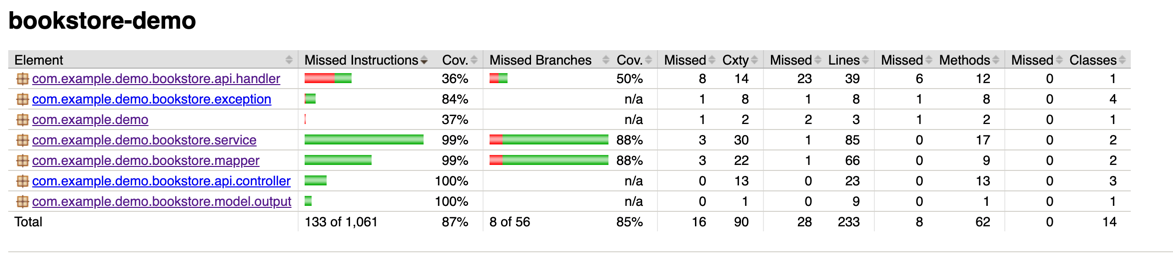
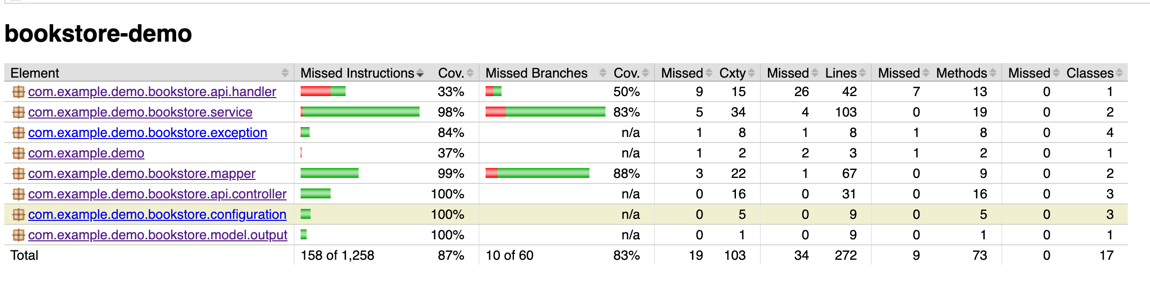
add feature: upload book cover image

diff --git a/src/test/java/com/example/demo/bookstore/api/controller/BookControllerTests.java b/src/test/java/com/example/demo/bookstore/api/controller/BookControllerTests.java
@@ -13,11 +13,19 @@ import org.junit.jupiter.api.Test;
 import org.springframework.beans.factory.annotation.Autowired;
 import org.springframework.boot.test.autoconfigure.web.servlet.AutoConfigureMockMvc;
 import org.springframework.boot.test.context.SpringBootTest;
+import org.springframework.http.MediaType;
 import org.springframework.http.ProblemDetail;
+import org.springframework.mock.web.MockMultipartFile;
+import org.springframework.mock.web.MockPart;
 import org.springframework.test.web.servlet.MockMvc;
 import org.springframework.test.web.servlet.MvcResult;
 import org.springframework.test.web.servlet.ResultMatcher;
 import org.springframework.test.web.servlet.request.MockHttpServletRequestBuilder;
+import org.springframework.test.web.servlet.request.MockMultipartHttpServletRequestBuilder;
+import org.springframework.test.web.servlet.request.MockMvcRequestBuilders;
+import org.springframework.util.LinkedMultiValueMap;
+import org.springframework.util.MultiValueMap;
+import org.springframework.web.multipart.MultipartFile;
 
 import java.math.BigDecimal;
 import java.util.Objects;
@@ -67,6 +75,40 @@ class BookControllerTests {
         //
         MockHttpServletRequestBuilder requestBuilder = post(url).contentType(APPLICATION_JSON)
                 .content(objectMapper.writeValueAsString(bookCreateInput))
+                .accept(APPLICATION_JSON);
+        // execute and assert
+        mockMvc.perform(requestBuilder)
+                .andDo(print())
+                .andExpect(status().isCreated())
+                .andExpect(new ResultMatcher() {
+                    @Override
+                    public void match(MvcResult result) throws Exception {
+                        String content = result.getResponse().getContentAsString();
+                        BookInfo bookInfo = objectMapper.readValue(content, BookInfo.class);
+                        //
+                        Assertions.assertEquals(bookCreateInput.getTitle(), bookInfo.getTitle());
+                        Assertions.assertEquals(bookCreateInput.getAuthor(), bookInfo.getAuthor());
+                        Assertions.assertEquals(bookCreateInput.getAmount(), bookInfo.getAmount());
+                        Assertions.assertEquals(bookCreateInput.getPrice(), bookInfo.getPrice());
+                        Assertions.assertEquals(bookCreateInput.getCategory(), bookInfo.getCategory());
+                    }
+                });
+    }
+
+    @Test
+    void test_api_create_book_with_cover_success() throws Exception {
+        String url = "/books/v2/";
+        // Prepare
+        BookCreateInput bookCreateInput = BookCreateInput.builder()
+                .title(randomTitle()).author(AUTHOR).category(CATEGORY)
+                .price(PRICE).amount(AMOUNT).build();
+        String jsonValue = objectMapper.writeValueAsString(bookCreateInput);
+        //
+        MockPart file = new MockPart("file", "image.jpg", "image data".getBytes(), MediaType.MULTIPART_FORM_DATA);
+        MockPart jsonPart = new MockPart("jsonData", "json", jsonValue.getBytes(), MediaType.APPLICATION_JSON);
+        //
+        MockHttpServletRequestBuilder requestBuilder = multipart(url)
+                .part(file, jsonPart)
                 .accept(APPLICATION_JSON);
         // execute and assert
         mockMvc.perform(requestBuilder)

diff --git a/src/main/java/com/example/demo/bookstore/service/BookService.java b/src/main/java/com/example/demo/bookstore/service/BookService.java
@@ -1,5 +1,6 @@
 package com.example.demo.bookstore.service;
 
+import com.example.demo.bookstore.configuration.BookstoreProperties;
 import com.example.demo.bookstore.entity.Book;
 import com.example.demo.bookstore.event.BookAddedIntoCart;
 import com.example.demo.bookstore.event.BookRemovedFromCart;
@@ -17,16 +18,17 @@ import org.springframework.data.domain.Page;
 import org.springframework.data.domain.PageRequest;
 import org.springframework.data.domain.Pageable;
 import org.springframework.data.domain.Sort;
-import org.springframework.scheduling.annotation.Async;
 import org.springframework.stereotype.Service;
 import org.springframework.transaction.annotation.Transactional;
-import org.springframework.transaction.event.TransactionalEventListener;
+import org.springframework.web.multipart.MultipartFile;
 
+import java.io.File;
+import java.io.IOException;
+import java.nio.file.Files;
+import java.nio.file.Path;
 import java.util.Collections;
 import java.util.List;
-import java.util.Optional;
 import java.util.Set;
-import java.util.function.Supplier;
 
 @Slf4j
 @Service
@@ -36,9 +38,14 @@ public class BookService {
 
     private final BookMapper bookMapper;
 
-    public BookService(BookRepository bookRepository, BookMapper bookMapper) {
+    private final BookstoreProperties bookstoreProperties;
+
+    public BookService(BookRepository bookRepository,
+                       BookMapper bookMapper,
+                       BookstoreProperties bookstoreProperties) {
         this.bookRepository = bookRepository;
         this.bookMapper = bookMapper;
+        this.bookstoreProperties = bookstoreProperties;
     }
 
     // create a book
@@ -129,6 +136,25 @@ public class BookService {
         //
         List<Book> bookList = bookRepository.findAllById(bookIds);
         return bookMapper.toBookInfos(bookList);
+    }
+
+    @Transactional
+    public BookInfo create(BookCreateInput input, MultipartFile file) {
+        log.debug("create book with file: {}", input);
+        Book book = bookMapper.toBook(input);
+        book.setActive(true);
+        // save file to directory
+        try {
+            String directory = bookstoreProperties.getRelativePath() + file.getOriginalFilename();
+            Path outputPath = new File(directory).toPath();
+            Files.copy(file.getInputStream(), outputPath);
+            book.setCoverImageUrl(directory);
+        } catch (IOException e) {
+            throw new RuntimeException(e);
+        }
+        //
+        book = bookRepository.save(book);
+        return bookMapper.toBookInfo(book);
     }
 
 }

diff --git a/src/main/java/com/example/demo/bookstore/api/controller/BookController.java b/src/main/java/com/example/demo/bookstore/api/controller/BookController.java
@@ -14,7 +14,9 @@ import io.swagger.v3.oas.annotations.tags.Tag;
 import jakarta.validation.Valid;
 import lombok.extern.slf4j.Slf4j;
 import org.springframework.http.HttpStatus;
+import org.springframework.validation.BindingResult;
 import org.springframework.web.bind.annotation.*;
+import org.springframework.web.multipart.MultipartFile;
 
 @Tag(name = "Book APIs")
 @RestController
@@ -31,15 +33,28 @@ public class BookController {
     @Operation(description = "Create a book")
     @PostMapping("/v1/")
     @ResponseStatus(HttpStatus.CREATED)
-    public BookInfo create(@Valid @RequestBody BookCreateInput input) {
+    public BookInfo create(
+            @Valid @RequestBody BookCreateInput input) {
         BookInfo bookInfo = bookService.create(input);
+        return bookInfo;
+    }
+
+    @Operation(description = "Create a book with cover image")
+    @PostMapping(value = "/v2/", consumes = {"multipart/form-data"})
+    @ResponseStatus(HttpStatus.CREATED)
+    public BookInfo createWithCover(
+            @RequestPart("file") MultipartFile file,
+            @Valid @RequestPart("jsonData") BookCreateInput input)
+    {
+        BookInfo bookInfo = bookService.create(input, file);
         return bookInfo;
     }
 
     @Operation(description = "Update book's information via id-based")
     @PutMapping("/v1/{id}")
     @ResponseStatus(HttpStatus.OK)
-    public BookInfo put(@PathVariable("id") Integer id, @Valid @RequestBody BookUpdateInput input){
+    public BookInfo put(@PathVariable("id") Integer id,
+                        @Valid @RequestBody BookUpdateInput input){
         return bookService.update(id, input);
     }
 

diff --git a/src/main/java/com/example/demo/bookstore/api/handler/GlobalExceptionHandler.java b/src/main/java/com/example/demo/bookstore/api/handler/GlobalExceptionHandler.java
@@ -4,6 +4,7 @@ import com.example.demo.bookstore.exception.EntityNotFoundException;
 import lombok.extern.slf4j.Slf4j;
 import org.springframework.http.*;
 import org.springframework.web.HttpMediaTypeNotAcceptableException;
+import org.springframework.web.HttpMediaTypeNotSupportedException;
 import org.springframework.web.HttpRequestMethodNotSupportedException;
 import org.springframework.web.bind.MethodArgumentNotValidException;
 import org.springframework.web.bind.annotation.ExceptionHandler;
@@ -71,6 +72,15 @@ public class GlobalExceptionHandler {
     @ResponseStatus(HttpStatus.NOT_ACCEPTABLE)
     protected ResponseEntity<ProblemDetail> handleHttpMediaTypeNotAcceptableException(
             HttpMediaTypeNotAcceptableException ex, WebRequest request) {
+        log.error("Request Not Supported: ", ex);
+        ProblemDetail errorResponse = buildProblemDetail("Request Not Supported", ex, HttpStatus.NOT_ACCEPTABLE, request);
+        return new ResponseEntity<ProblemDetail>(errorResponse, HttpStatus.NOT_ACCEPTABLE);
+    }
+
+    @ExceptionHandler(HttpMediaTypeNotSupportedException.class)
+    @ResponseStatus(HttpStatus.NOT_ACCEPTABLE)
+    protected ResponseEntity<ProblemDetail> httpMediaTypeNotSupportedException(
+            HttpMediaTypeNotSupportedException ex, WebRequest request) {
         log.error("Request Not Supported: ", ex);
         ProblemDetail errorResponse = buildProblemDetail("Request Not Supported", ex, HttpStatus.NOT_ACCEPTABLE, request);
         return new ResponseEntity<ProblemDetail>(errorResponse, HttpStatus.NOT_ACCEPTABLE);

diff --git a/src/test/java/com/example/demo/bookstore/configuration/BookstoreConfigTests.java b/src/test/java/com/example/demo/bookstore/configuration/BookstoreConfigTests.java
@@ -1,0 +1,29 @@
+package com.example.demo.bookstore.configuration;
+
+import org.junit.jupiter.api.Test;
+import org.springframework.beans.factory.annotation.Autowired;
+import org.springframework.boot.test.context.SpringBootTest;
+
+import java.io.IOException;
+
+import static org.junit.jupiter.api.Assertions.*;
+
+@SpringBootTest(properties = "app.file.directory=public/images/")
+class BookstoreConfigTests {
+
+    @Autowired
+    BookstoreConfig bookstoreConfig;
+
+    @Autowired
+    BookstoreProperties bookstoreProperties;
+
+    @Test
+    public void test_config_value() throws IOException {
+        assertNotNull(bookstoreProperties);
+        assertNotNull(bookstoreProperties.file);
+        assertNotNull(bookstoreProperties.file.getDirectory());
+        assertEquals("public/images/", bookstoreProperties.file.getDirectory());
+        System.out.println(bookstoreProperties.getRelativePath());
+    }
+
+}

diff --git a/src/main/java/com/example/demo/bookstore/configuration/BookstoreProperties.java b/src/main/java/com/example/demo/bookstore/configuration/BookstoreProperties.java
@@ -1,0 +1,26 @@
+package com.example.demo.bookstore.configuration;
+
+import lombok.Data;
+import org.springframework.core.io.ClassRelativeResourceLoader;
+import org.springframework.core.io.Resource;
+import org.springframework.core.io.ResourceLoader;
+
+import java.io.IOException;
+
+@Data
+public class BookstoreProperties {
+
+    @Data
+    public static class FileProperties {
+        private String directory;
+    }
+
+    FileProperties file;
+
+
+    public String getRelativePath() throws IOException {
+        ResourceLoader resourceLoader = new ClassRelativeResourceLoader(this.getClass());
+        Resource resource = resourceLoader.getResource("classpath:" + file.getDirectory());
+        return resource.getURI().getPath();
+    }
+}

diff --git a/src/main/java/com/example/demo/bookstore/configuration/WebConfig.java b/src/main/java/com/example/demo/bookstore/configuration/WebConfig.java
@@ -1,0 +1,19 @@
+package com.example.demo.bookstore.configuration;
+
+import org.springframework.beans.factory.annotation.Autowired;
+import org.springframework.context.annotation.Configuration;
+import org.springframework.web.servlet.config.annotation.ResourceHandlerRegistry;
+import org.springframework.web.servlet.config.annotation.WebMvcConfigurer;
+
+@Configuration
+public class WebConfig implements WebMvcConfigurer {
+
+    @Autowired
+    private BookstoreProperties bookstoreProperties;
+
+    @Override
+    public void addResourceHandlers(ResourceHandlerRegistry registry) {
+        registry.addResourceHandler("/uploads/**")
+                .addResourceLocations("file:" + bookstoreProperties.file.getDirectory());
+    }
+}

diff --git a/src/main/java/com/example/demo/bookstore/configuration/BookstoreConfig.java b/src/main/java/com/example/demo/bookstore/configuration/BookstoreConfig.java
@@ -1,0 +1,16 @@
+package com.example.demo.bookstore.configuration;
+
+import org.springframework.boot.context.properties.ConfigurationProperties;
+import org.springframework.context.annotation.Bean;
+import org.springframework.context.annotation.Configuration;
+
+@Configuration
+public class BookstoreConfig {
+
+    @Bean
+    @ConfigurationProperties("app")
+     public BookstoreProperties bookstoreProperties(){
+        return new BookstoreProperties();
+    }
+
+}

diff --git a/src/main/java/com/example/demo/bookstore/model/output/BookInfo.java b/src/main/java/com/example/demo/bookstore/model/output/BookInfo.java
@@ -43,4 +43,6 @@ public class BookInfo {
     @Schema(description = "book's status", example = "true or false")
     private Boolean active;
 
+    @Schema(description = "book's cover image", example = "http://image.example.com/a/1.png")
+    private String coverImageUrl;
 }

diff --git a/src/main/java/com/example/demo/bookstore/entity/Book.java b/src/main/java/com/example/demo/bookstore/entity/Book.java
@@ -50,4 +50,6 @@ public class Book {
     @UpdateTimestamp
     private LocalDateTime updateTimestamp;
 
+    @Column
+    private String coverImageUrl;
 }
